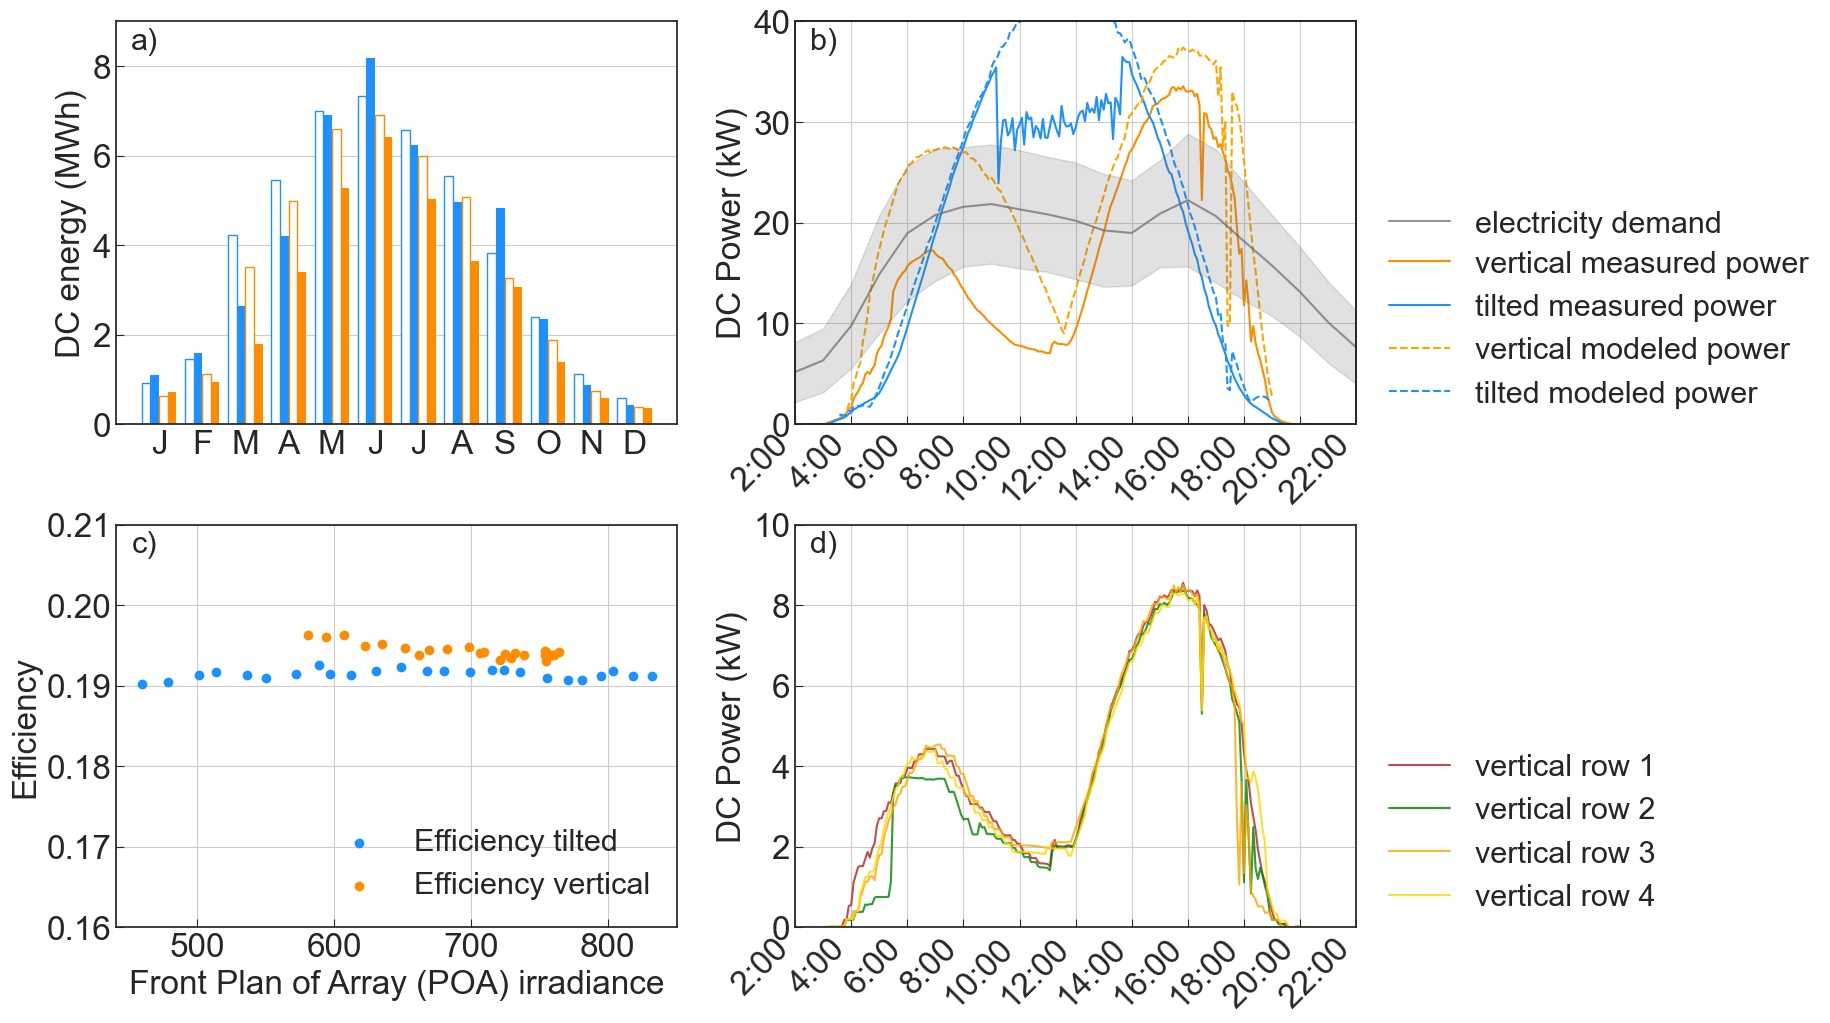
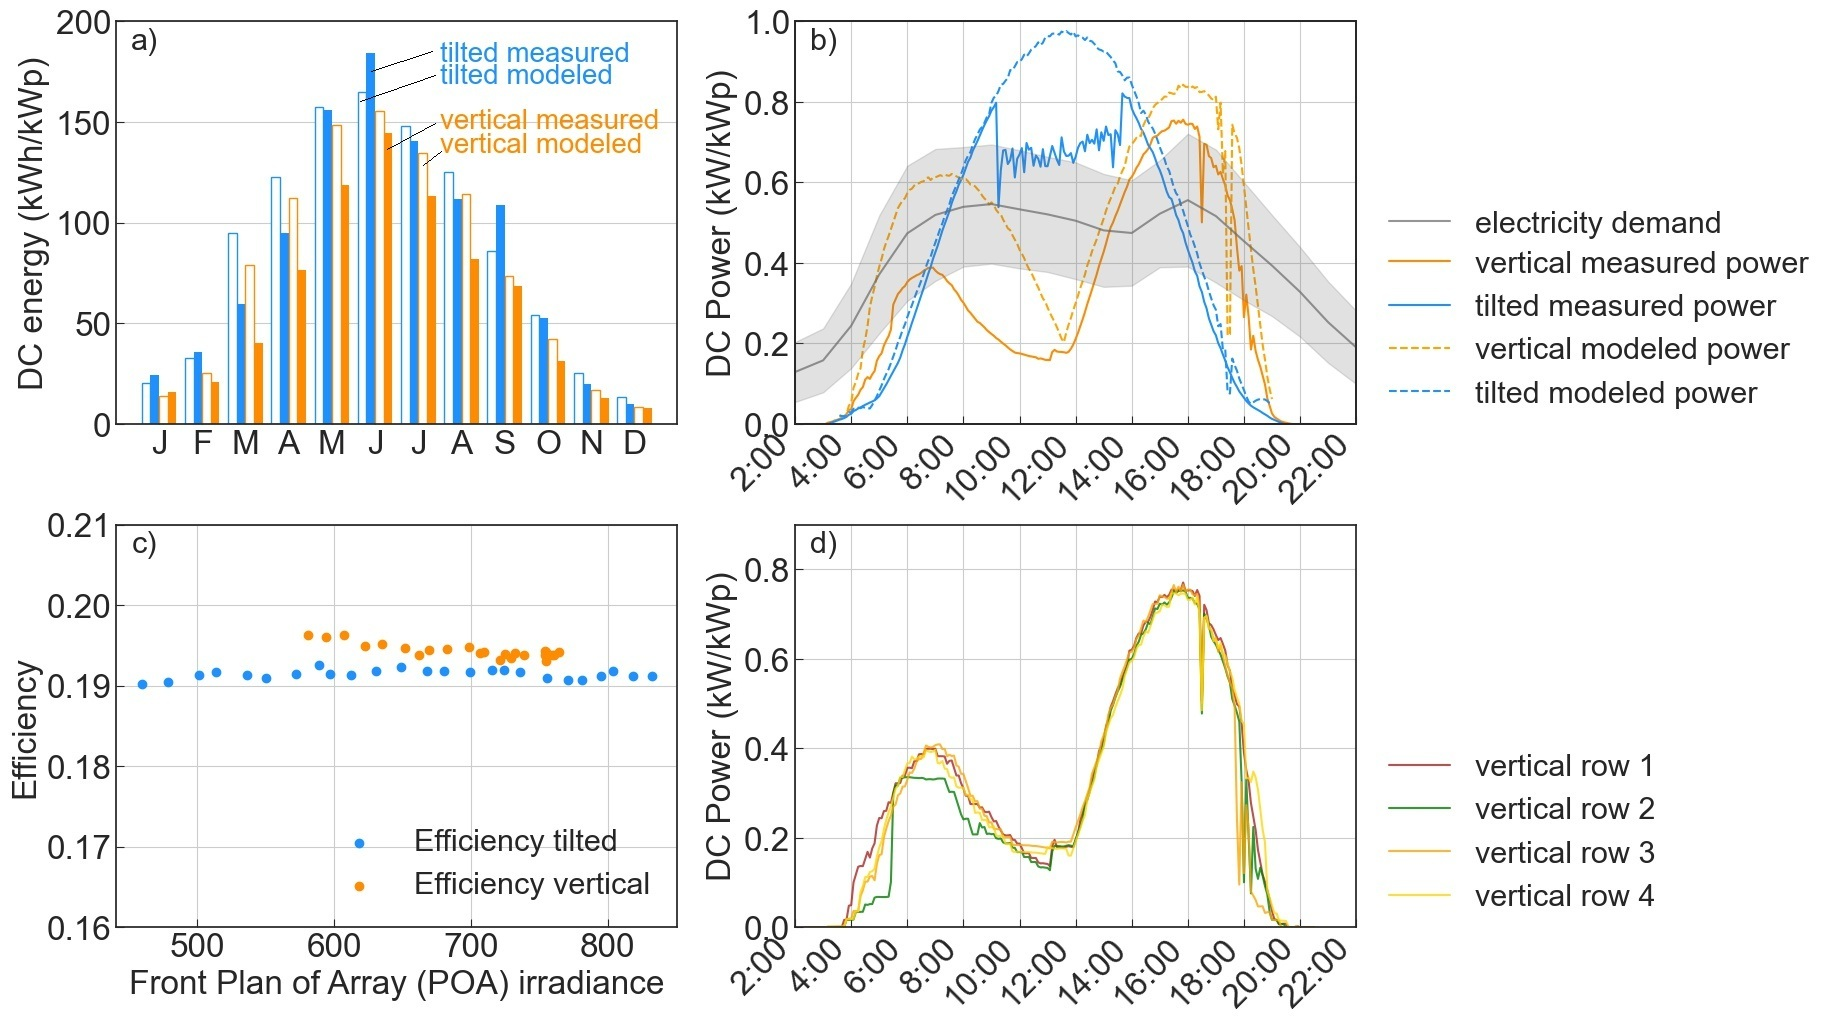
update figure paper to show values per kWp

diff --git a/figure_paper.py b/figure_paper.py
@@ -95,16 +95,16 @@ time_index = pd.date_range(start=day,
                            freq='5min',
                            tz=tz)
 #power generation inverter   
-ax0.plot(data['INV-2-VBF Total input power (kW)'][time_index], 
+ax0.plot(data['INV-2-VBF Total input power (kW)'][time_index]*(1/44.4), 
               color=color_v,
               label='vertical measured power')
 
-ax0.plot(data['INV-1-TBF Total input power (kW)'][time_index], 
+ax0.plot(data['INV-1-TBF Total input power (kW)'][time_index]*(1/44.4), 
               color=color_t,
               label='tilted measured power')
 
-ax0.set_ylim([0,40])
-ax0.set_ylabel('DC Power (kW)')
+ax0.set_ylim([0,1])
+ax0.set_ylabel('DC Power (kW/kWp)')
 ax0.xaxis.set_major_formatter(mdates.DateFormatter('%H:%m'))
 ax0.set_xlim([time_index[24], time_index[264]])
 plt.setp(ax0.get_xticklabels(), ha="right", rotation=45)
@@ -136,18 +136,18 @@ GHI_SPN1_m = data['GHI_SPN1 (W.m-2)'][time_index_m].groupby(data['GHI_SPN1 (W.m-
 GHI_m = data['GHI (W.m-2)'][time_index_m].groupby(data['GHI (W.m-2)'][time_index_m].index.month).sum().reset_index()
 
 ax1.bar(dc_energy_t_m['index']-0.1,
-        (1/1000)*(1/12)*dc_energy_t_m['INV-1-TBF Total input power (kW)'], #5 minutes resolution, kW -> MW  
+        (1/12)*dc_energy_t_m['INV-1-TBF Total input power (kW)']*(1/44.4), #5 minutes resolution, kW -> kWh/kWp  
         width=0.2,
         color=color_t,
         label='tilted measured')
 
 ax1.bar(dc_energy_v_m['index']+0.3,
-        (1/1000)*(1/12)*dc_energy_v_m['INV-2-VBF Total input power (kW)'], #5 minutes resolution, kW -> MW  
+        (1/12)*dc_energy_v_m['INV-2-VBF Total input power (kW)']*(1/44.4), #5 minutes resolution, kW -> kWh/kWp  
         width=0.2,
         color=color_v,
         label='vertical measured')
 ax1.yaxis.grid('--')
-ax1.set_ylim([0,9])
+ax1.set_ylim([0,200])
 
 
 """
@@ -280,7 +280,7 @@ cell_temperature_v = pvlib.temperature.sapm_cell(effective_irrad_bifi_v,
 dc_power_v = factor*pvlib.pvsystem.sapm(effective_irrad_bifi_v, 
                                          cell_temperature_v, 
                                          module)
-ax0.plot(dc_power_v['p_mp'], 
+ax0.plot(dc_power_v['p_mp']*(1/44.4), 
          color='orange',
          linestyle='--',
          label='vertical modeled power')
@@ -308,13 +308,13 @@ dc_power_t = factor*pvlib.pvsystem.sapm(effective_irrad_bifi_t,
                                          cell_temperature_t, 
                                          module)
 
-ax0.plot(dc_power_t['p_mp'], 
+ax0.plot(dc_power_t['p_mp']*(1/44.4), 
          color='dodgerblue',
          linestyle='--',
          label='tilted modeled power')
 ax0.legend(fontsize=22, bbox_to_anchor=(1.01, 0.5))
 
-#%%
+
 """
 %%%%%%%%%%%%%%%%%%%%%%%%%%%%%%%%%%%%%%%%%%%%%%%%%
 
@@ -383,7 +383,7 @@ dc_power_v_m = dc_power_v['p_mp'].groupby(dc_power_v['p_mp'].index.month).sum().
 dc_power_t_m = dc_power_t['p_mp'].groupby(dc_power_t['p_mp'].index.month).sum().reset_index()
 
 system_losses=0.16
-#%%
+
 print("****** modelled yield tilted installation")
 print(((1-system_losses)*factor*dc_power_t_m['p_mp'].sum()/44.4).round())
 print("****** historial yield tilted installation")
@@ -394,15 +394,15 @@ print("****** historical annual GHI SPN1")
 print((0.001*1/12*GHI_SPN1_m['GHI_SPN1 (W.m-2)'].sum()).round())
 print("****** historical annual GHI")
 print((0.001*1/12*GHI_m['GHI (W.m-2)'].sum()).round())
-#%%
+
 ax1.bar(dc_power_t_m['time(UTC)']-0.3,
-        0.001*(1-system_losses)*factor*dc_power_t_m['p_mp'], #kW to MW
+        (1-system_losses)*factor*dc_power_t_m['p_mp']*(1/44.4), #kW to MW (to MWh/kW)
         width=0.2,
         color='white',
         edgecolor=color_t, 
         label='tilted model (TMY)')
 ax1.bar(dc_power_v_m['time(UTC)']+0.1,
-        0.001*(1-system_losses)*factor*dc_power_v_m['p_mp'],
+        (1-system_losses)*factor*dc_power_v_m['p_mp']*(1/44.4),
         width=0.2,
         color='white',
         edgecolor=color_v, 
@@ -410,14 +410,17 @@ ax1.bar(dc_power_v_m['time(UTC)']+0.1,
 ax1.set_xticks(dc_power_v_m['time(UTC)'])
 
 ax1.set_xticklabels(['J', 'F', 'M', 'A', 'M', 'J', 'J', 'A', 'S', 'O', 'N', 'D'])
-ax1.set_ylabel('DC energy (MWh)')
+ax1.set_ylabel('DC energy (kWh/kWp)')
 
 ax1.text(0.05, 0.95, 'a)', 
           fontsize=22,
           horizontalalignment='center',
           verticalalignment='center', 
           transform=ax1.transAxes)
-
+ax1.annotate('vertical measured',  fontsize=20, xy=(5, 4.5), xytext=(7.5, 147), color=color_v)
+ax1.annotate('vertical modeled', fontsize=20, xy=(5, 4), xytext=(7.5, 135),  color=color_v)
+ax1.annotate('tilted measured',  fontsize=20, xy=(5, 6), xytext=(7.5, 180), color=color_t)
+ax1.annotate('tilted modeled', fontsize=20, xy=(5, 5.5), xytext=(7.5, 169),  color=color_t)
 
 """
 Add electricity demand in Denmark in 2019
@@ -475,14 +478,14 @@ Subfigure C: Power generation per string
 #power generation per string 
 colors=['firebrick', 'green', 'orange', 'gold']
 for i in ['1', '2', '3', '4']:
-    ax3.plot(0.001*data['VBF PV{} input voltage (V)'.format(i)][time_index]*data['VBF PV{} input current (A)'.format(i)][time_index], 
+    ax3.plot(0.001*data['VBF PV{} input voltage (V)'.format(i)][time_index]*data['VBF PV{} input current (A)'.format(i)][time_index]*(1/11.1), 
              color=colors[int(i)-1],
              alpha=0.8,
              label='vertical row {}'.format(i))
  
-ax3.set_ylim([0,10])
+ax3.set_ylim([0,0.9])
 ax3.set_xlim(time_index[0], time_index[-1])
-ax3.set_ylabel('DC Power (kW)')
+ax3.set_ylabel('DC Power (kW/kWp)')
 ax3.xaxis.set_major_formatter(mdates.DateFormatter('%H:%m'))
 ax3.set_xlim([time_index[24], time_index[264]])
 ax3.set_xticklabels([str(time_index[i].hour)+':00' for i in [24, 48, 72, 96, 120, 144, 168, 192, 216, 240, 264]])
